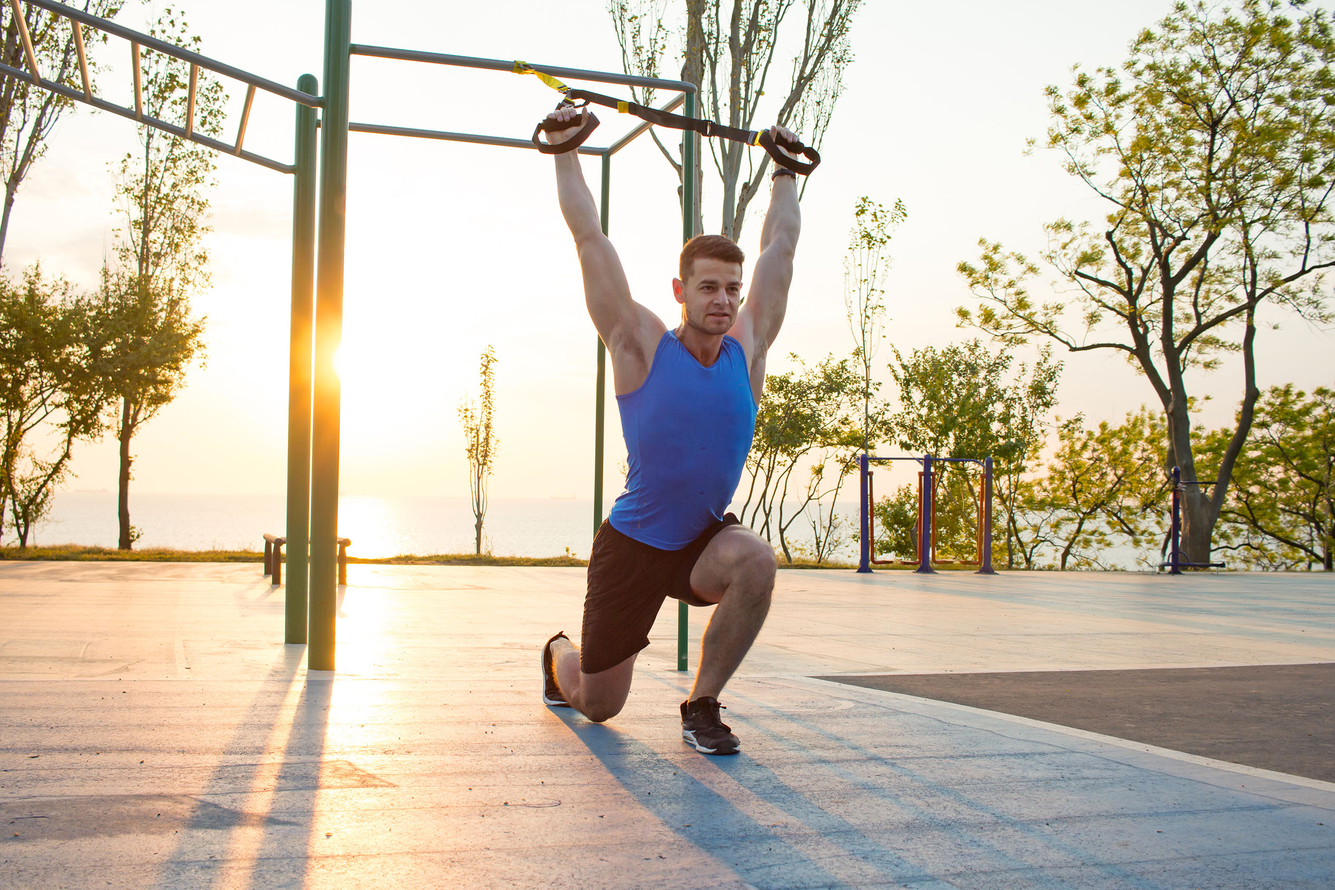
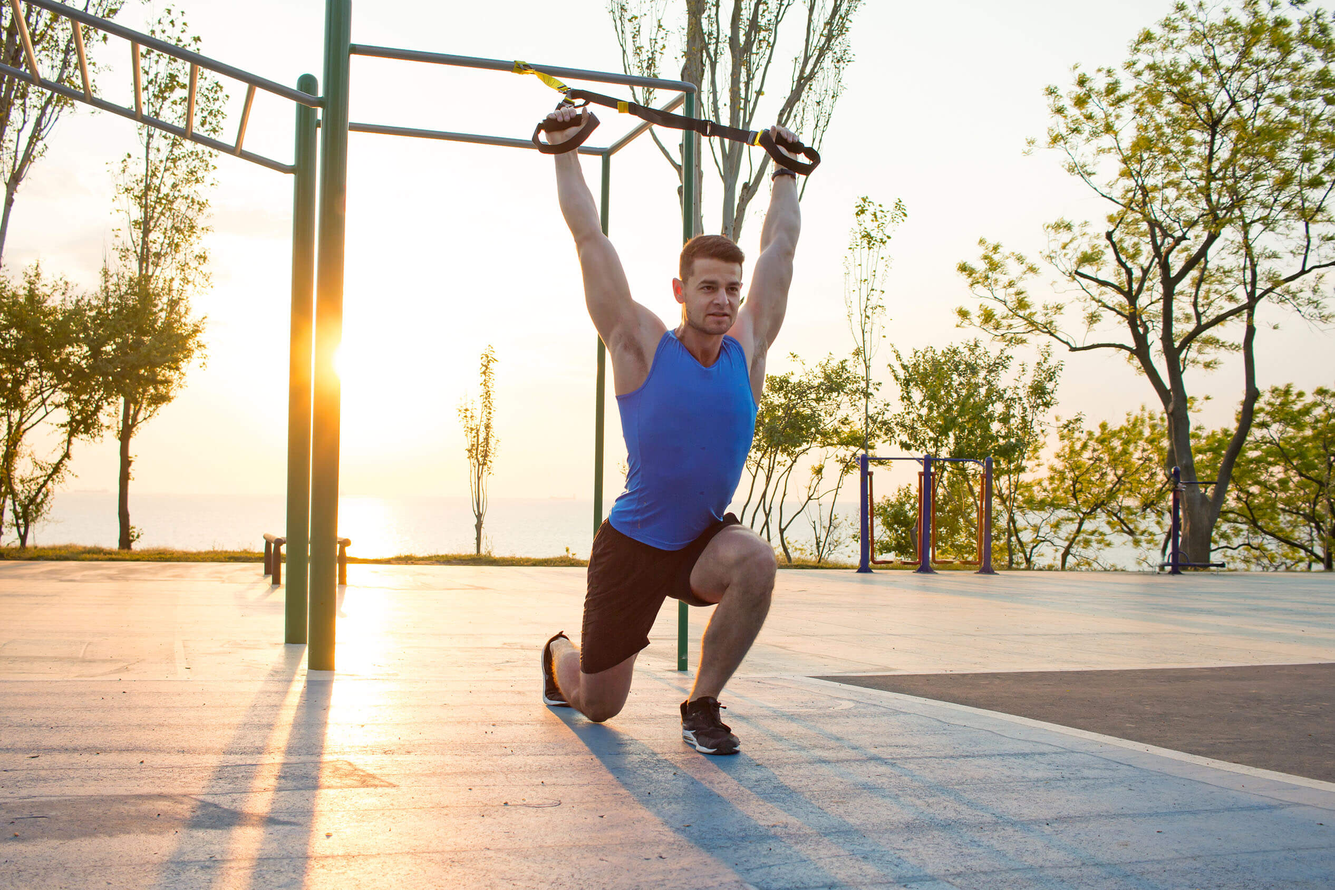
"update"

diff --git a/index.html b/index.html
@@ -55,7 +55,7 @@
 
     <section class="intro-image-section">
       <div class="intro-image-wrap">
-        <img class="intro-main-image" src="assets/section-image.png" alt="Green Avenue entry view">
+        <img class="intro-main-image" src="assets/section-image.webp" alt="Green Avenue entry view">
       </div>
     </section>
 
@@ -173,13 +173,13 @@
       <div class="green-life-shell">
         <div class="green-life-carousel" data-fade-carousel>
           <div class="green-life-slide is-active">
-            <img src="assets/Artboard 3.png" alt="Green life moment 1">
+            <img src="assets/Artboard-3.webp" alt="Green life moment 1">
           </div>
           <div class="green-life-slide">
-            <img src="assets/Artboard 4.png" alt="Green life moment 2">
+            <img src="assets/Artboard-4.webp" alt="Green life moment 2">
           </div>
           <div class="green-life-slide">
-            <img src="assets/Artboard 5.png" alt="Green life moment 3">
+            <img src="assets/Artboard-5.webp" alt="Green life moment 3">
           </div>
         </div>
 
@@ -197,7 +197,7 @@
         </div>
 
         <div class="master-plan-image-wrap">
-          <img class="master-plan-image" src="assets/Master Plan.png" alt="Green Avenue master plan">
+          <img class="master-plan-image" src="assets/Master Plan.webp" alt="Green Avenue master plan">
         </div>
 
         <img class="master-plan-decor master-plan-decor-right" src="assets/flower-icon.svg" alt="" aria-hidden="true">
